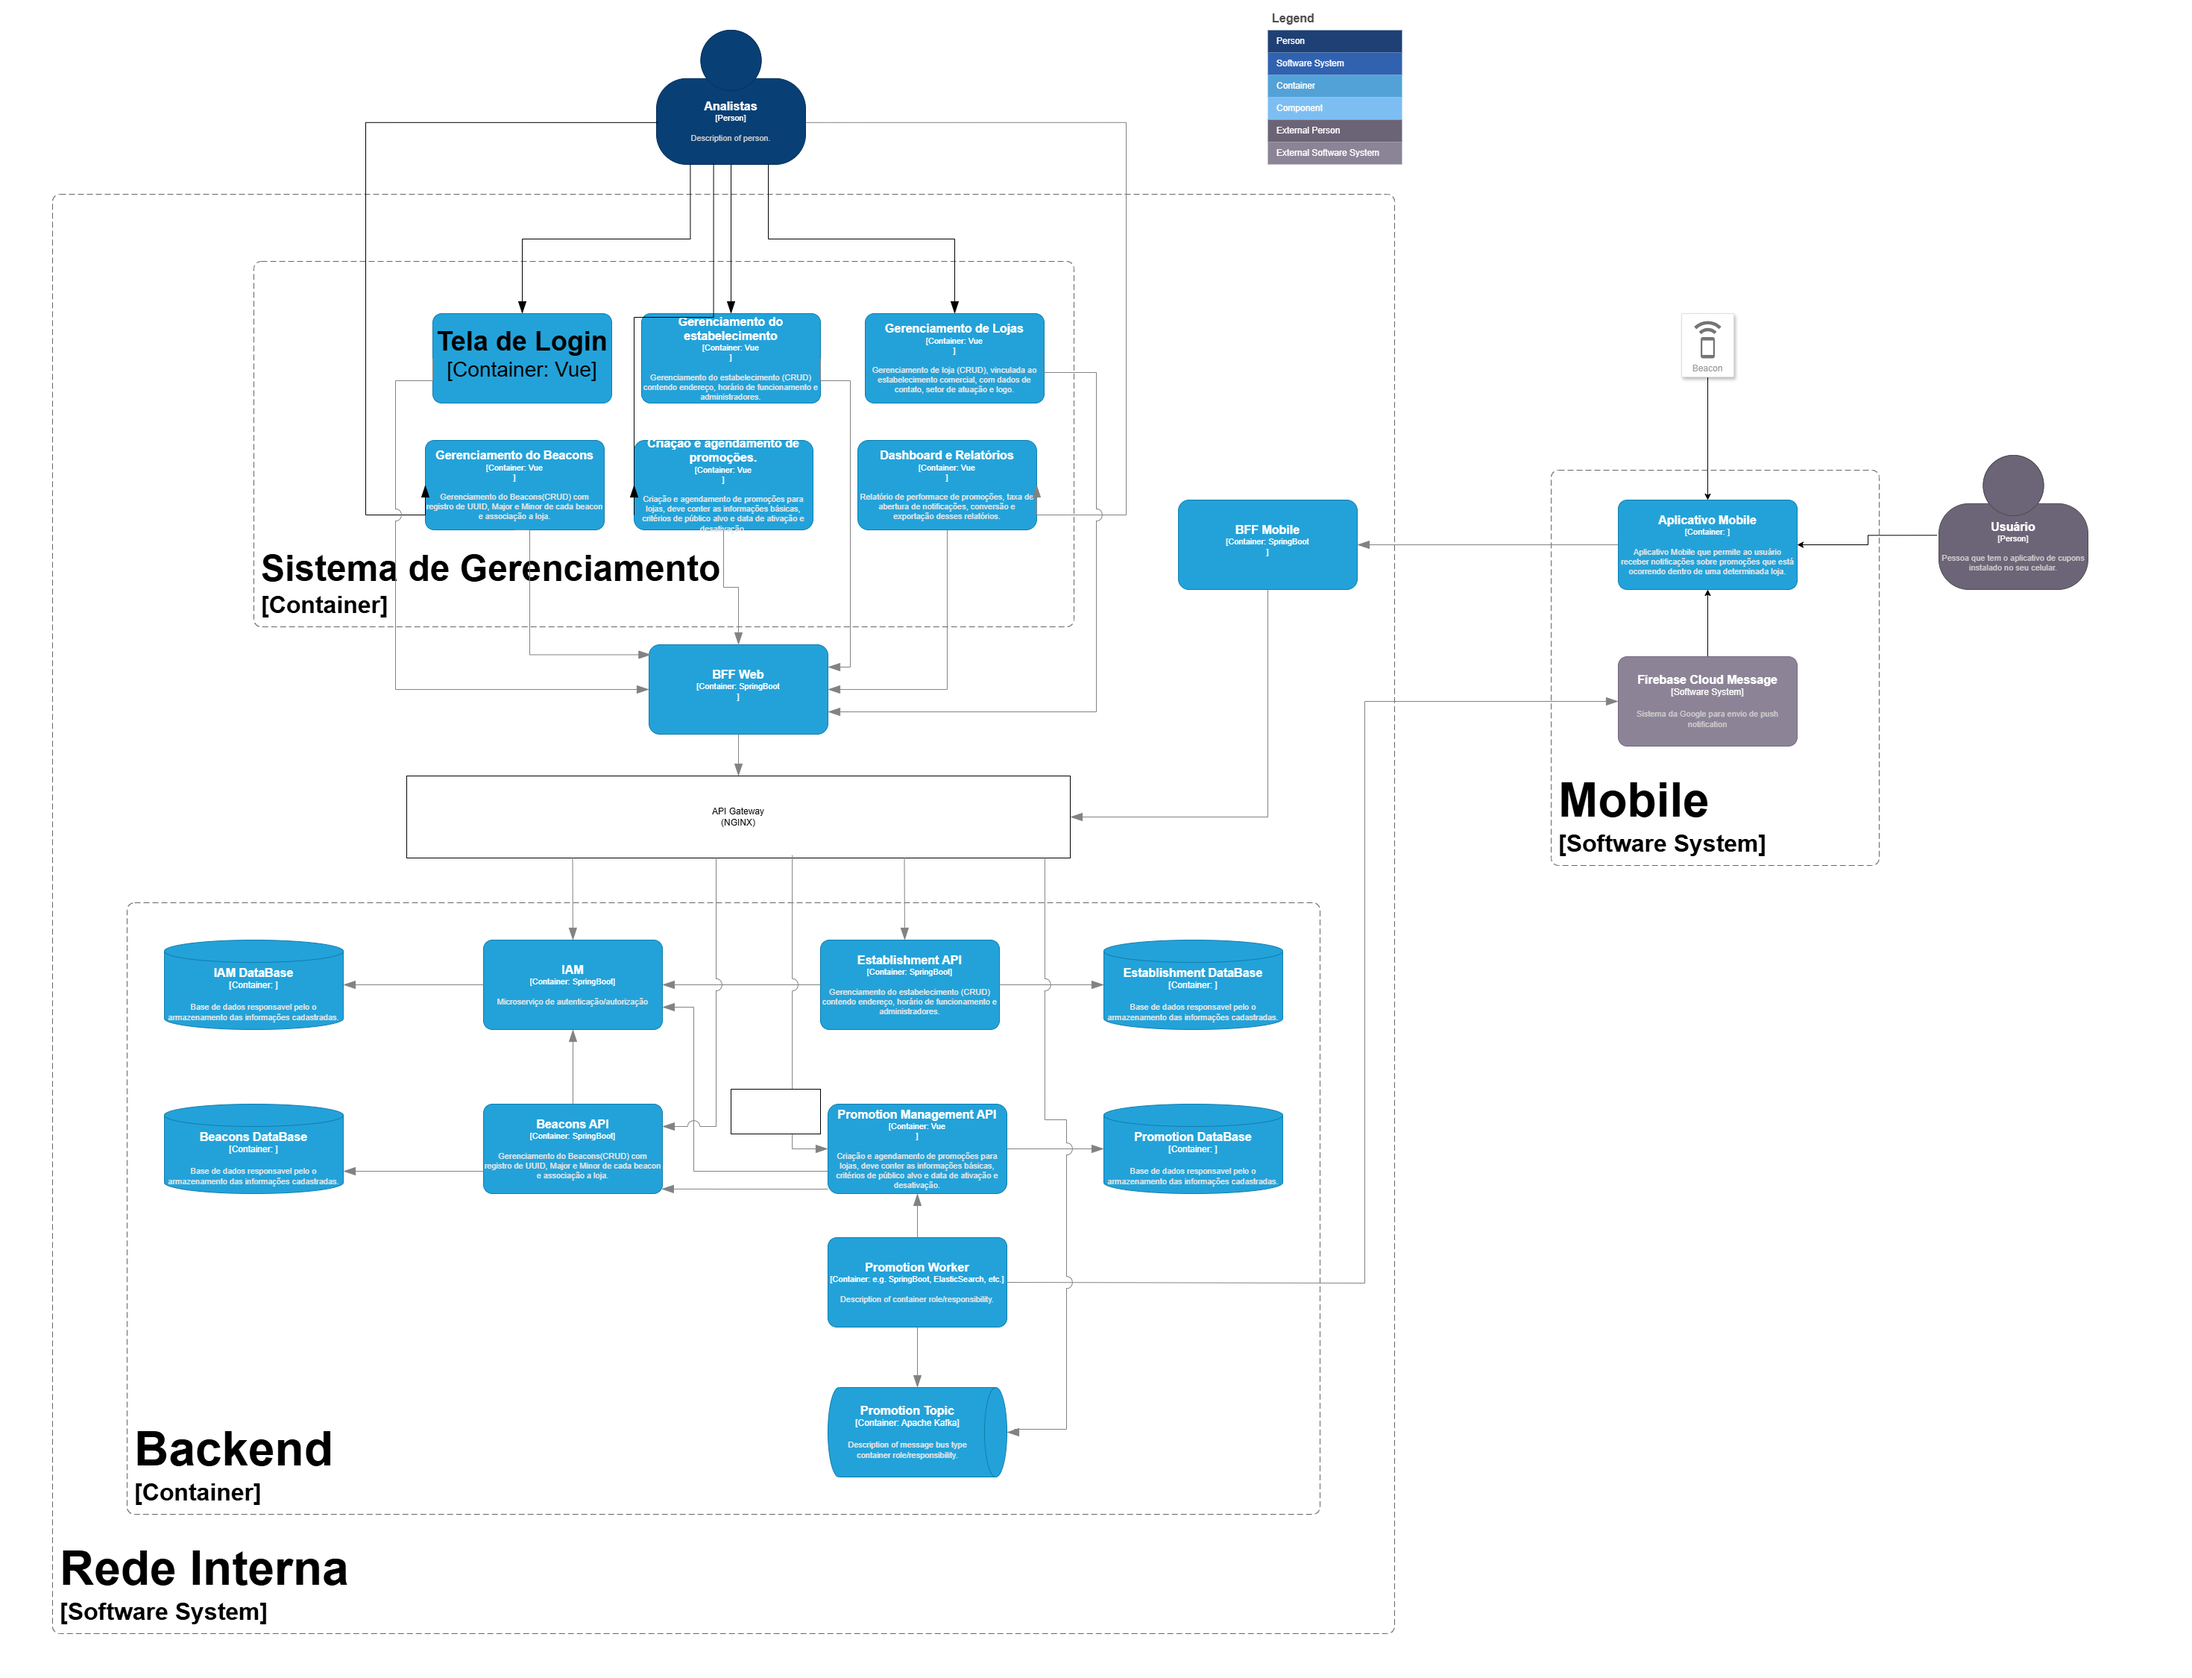
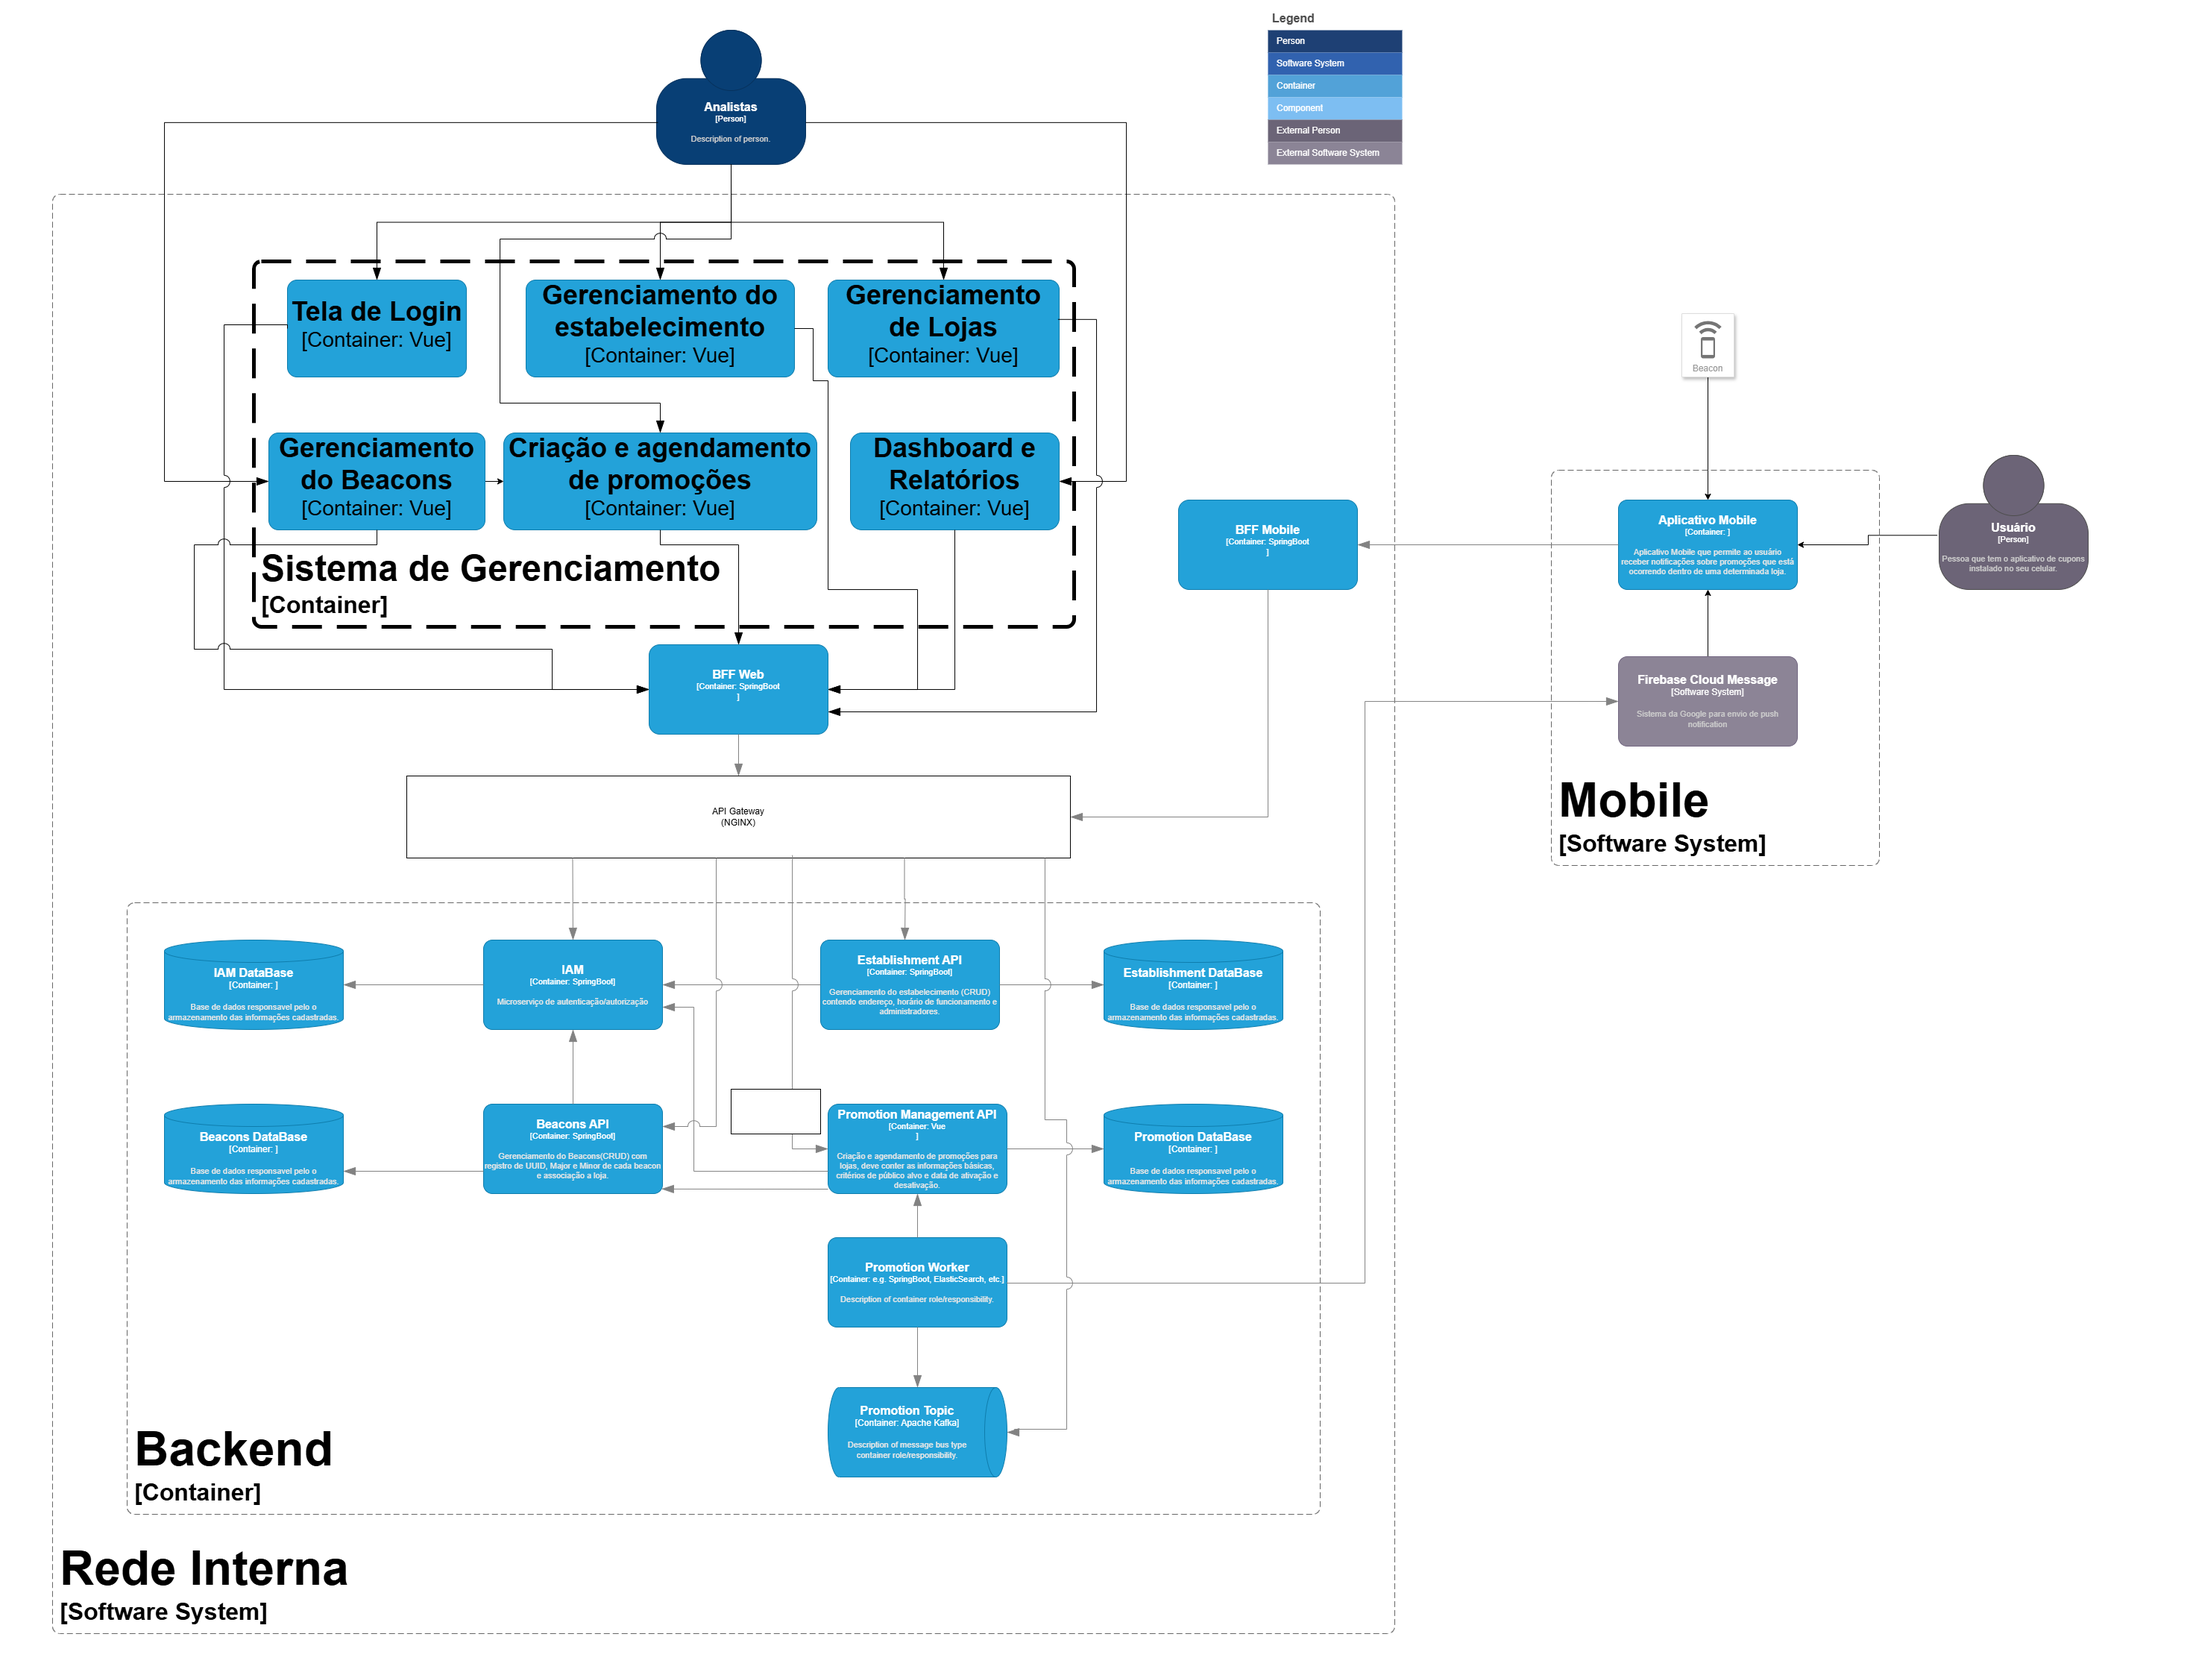
Ajuste de todas as fontes e textos do sistema de gerenciamento

diff --git a/README.md b/README.md
@@ -37,6 +37,11 @@ O administrador, nessa representação, tem acesso a painéis onde pode gerencia
 
 Os elementos do sistema de gerenciamento são:
 - **Tela de login**: Tela na qual o usuário realiza o login para ter autorização a acessar o sistema.
+- **Gerenciamento do estabelecimento**: Gerenciamento do estabelecimento (CRUD) contendo endereço, horário de funcionamento e administradores.
+- **Gerenciamento de Lojas**: Gerenciamento de loja (CRUD), vinculada ao estabelecimento comercial, com dados de contato, setor de atuação e logo.
+- **Gerenciamento do Beacons**: Gerenciamento do Beacons(CRUD) com registro de UUID, Major e Minor de cada beacon e associação a loja.
+- **Criação e agendamento de promoções**: Criação e agendamento de promoções para lojas, deve conter as informações básicas, critérios de público alvo e data de ativação e desativação.
+- **Dashboard e Relatórios**: Relatório de performace de promoções, taxa de abertura de notificações, conversão e exportação desses relatórios.
 
 ## Aplicativo mobile
 
